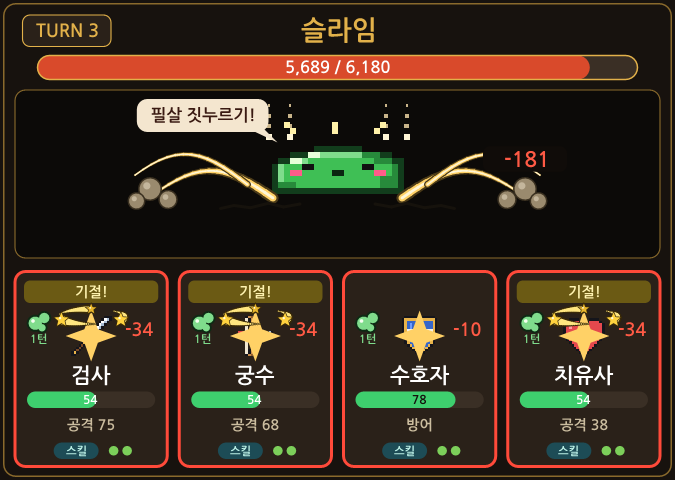
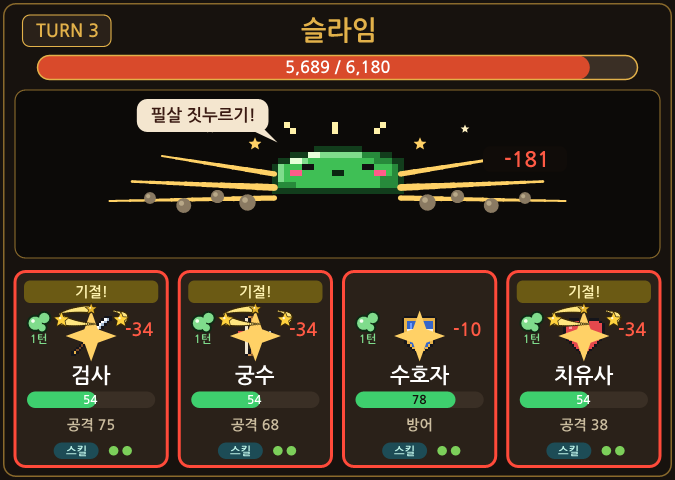
슬라임 필살기: 굵은 충격선(시안 A) — 양옆 노란 충격선 세 줄 + 흙먼지 + 작은 충격 별 / 울부짖음 → 울부짖기

diff --git a/handlers/레이드그림.js b/handlers/레이드그림.js
@@ -454,7 +454,7 @@ function puff(x, y, size, c, light, dark = '#3a1450') {
 // 작은 유령(원혼 폭풍): 5×5 도트
 const MINI_GHOST = { rows: ['.www.', 'wwwww', 'wkwkw', 'wwwww', 'w.w.w'], palette: { w: '#f1ecff', k: '#2a1f4a' } };
 const MINI_GHOST_DARK = { rows: ['.www.', 'wwwww', 'wkwkw', 'wwwww', 'w.w.w'], palette: { w: '#9b7bff', k: '#1a0f33' } };
-// 들쭉날쭉한 호(울부짖음 음파): 중심에서 r, 각도 a0~a1, 바깥·안쪽을 번갈아
+// 들쭉날쭉한 호(울부짖기 음파): 중심에서 r, 각도 a0~a1, 바깥·안쪽을 번갈아
 function jaggedArc(cx, cy, r, a0, a1, squash, width, color, teeth = 9) {
   let prev = null;
   for (let i = 0; i <= teeth * 2; i++) {
@@ -574,7 +574,7 @@ function monsterFx(move, cx, cy, color, layer, spore = color, accent = spore) {
   }
   // ── 고스트 ──
   if (move === 'wail' && layer === 'back') {
-    // 울부짖음: 입에서 터져 나가는 들쭉날쭉한 음파 고리 세 겹(안쪽은 밝고 굵게, 바깥은 흐리게)
+    // 울부짖기: 입에서 터져 나가는 들쭉날쭉한 음파 고리 세 겹(안쪽은 밝고 굵게, 바깥은 흐리게)
     for (const [r, w, c] of [[96, 6, '#f4f0ff'], [132, 5, '#c3b4ff'], [168, 4, '#7c5fd6']]) {
       jaggedArc(cx, cy + 18, r, -0.85, 0.85, 0.62, w, c);
       jaggedArc(cx, cy + 18, r, Math.PI - 0.85, Math.PI + 0.85, 0.62, w, c);
@@ -739,24 +739,14 @@ function monsterFx(move, cx, cy, color, layer, spore = color, accent = spore) {
       p.rect(cx + dx - s, cy + dy - s / 3, s * 2, (s * 2) / 3, '#7cff9a');
       p.rect(cx + dx - s / 3, cy + dy - s, (s * 2) / 3, s * 2, '#7cff9a');
     }
-  } else if (move === 'smash' && layer === 'back') {
-    // 필살 짓누르기: 위에서 내리꽂힌 흔적 — 몸 양옆 위에서 아래로 굵어지는 낙하 속도선
-    for (const dx of [-92, -64, 64, 92]) {
-      for (let i = 0; i < 4; i++) dot(cx + dx, cy - 62 + i * 14, 3 + i * 1.6, i === 3 ? '#fff6d6' : '#c9b48a');
-    }
   } else if (move === 'smash' && layer === 'front') {
-    // 바닥에서 양옆으로 휘몰아치는 굵은 충격 바람(초승달 모양, 어두운 테두리 → 노랑 → 흰 심) + 땅 균열 + 흙먼지 구름
+    // 필살 짓누르기(시안 A 굵은 충격선): 양옆으로 뻗는 노란 충격선 세 줄씩(바깥으로 갈수록 가늘게) + 흙먼지 뭉치 + 위로 튀는 작은 충격 별
     for (const sd of [-1, 1]) {
-      for (const [r0, thick, oy] of [[86, 16, 0], [120, 10, -18]]) {
-        const pts = [];
-        for (let i = 0; i <= 14; i++) { const t = i / 14; pts.push([cx + sd * (r0 + t * 150), cy + 62 + oy - Math.sin(t * Math.PI * 0.9) * (26 + r0 * 0.12)]); }
-        for (const [k, c] of [[1, '#4a3a18'], [0.62, '#ffd166'], [0.25, '#fff6d6']]) {
-          for (let i = 1; i < pts.length; i++) { const taper = 1 - (i / pts.length) * 0.75; p.line(pts[i - 1][0], pts[i - 1][1], pts[i][0], pts[i][1], Math.max(1.5, thick * k * taper), c); }
-        }
+      for (const [y0, y1, len, w] of [[30, 6, 150, 7], [48, 40, 190, 9], [62, 66, 220, 7]]) {
+        for (let i = 0; i < 8; i++) { const t0 = i / 8, t1 = (i + 1) / 8; p.line(cx + sd * (84 + len * t0), cy + y0 + (y1 - y0) * t0, cx + sd * (84 + len * t1), cy + y0 + (y1 - y0) * t1, Math.max(2, w * (1 - t0 * 0.7)), '#ffd166'); }
       }
-      let [x, y] = [cx + sd * 50, cy + 70];
-      for (const [dx, dy] of [[22, 4], [20, -5], [24, 6], [22, -3], [18, 4]]) { p.line(x, y, x + sd * dx, y + dy, 4, '#16120c'); x += sd * dx; y += dy; }
-      for (const [dx, dy, r] of [[250, 50, 14], [226, 64, 11], [268, 66, 10]]) { p.circle(cx + sd * dx, cy + dy, r + 2, '#3a3020'); p.circle(cx + sd * dx, cy + dy, r, '#9a8a6e'); p.circle(cx + sd * dx - r * 0.3, cy + dy - r * 0.3, r * 0.35, '#c4b69c'); }
+      for (const [dx, dy, r] of [[120, 68, 11], [160, 60, 9], [205, 72, 10], [250, 62, 8]]) { p.circle(cx + sd * dx, cy + dy, r, '#8a7a62'); p.circle(cx + sd * dx - r * 0.3, cy + dy - r * 0.3, r * 0.35, '#b8a888'); }
+      star(cx + sd * 110, cy - 10, 9, '#ffd166'); star(cx + sd * 170, cy - 30, 6, '#fff1c2');
     }
   }
 }
@@ -792,7 +782,7 @@ function hitFx(move, cx, cy, color, spore = color, accent = spore) {
   } else if (move === 'curse') {
     // 영혼 사냥: 대상 카드 표시는 renderBattle의 curseLink가 그린다(세 줄 할퀴기)
   } else if (move === 'wail') {
-    // 울부짖음: 아이콘을 감싸는 들쭉날쭉한 음파 두 겹(양옆)
+    // 울부짖기: 아이콘을 감싸는 들쭉날쭉한 음파 두 겹(양옆)
     for (const [r, c] of [[30, '#f4f0ff'], [42, '#9b7bff']]) {
       jaggedArc(cx, cy, r, -0.9, 0.9, 1, 3, c, 5);
       jaggedArc(cx, cy, r, Math.PI - 0.9, Math.PI + 0.9, 1, 3, c, 5);

diff --git a/tests/raid/흐름테스트.js b/tests/raid/흐름테스트.js
@@ -794,7 +794,7 @@ let ok4;
 
       b = E.createBattle(ghost, party, rng);
       turnWith('wail', { x: 'guard', t: 'attack', y: 'attack' });
-      assert(!E.isFeared(b, M('x')) && E.isFeared(b, M('t')) && E.checkChoice(b, 't', 'skill') && E.checkChoice(b, 't', 'attack') === null && b.log.join().includes('😱'), '울부짖음: 방어 안 한 사람 😱공포 — 다음 턴 스킬 못 씀');
+      assert(!E.isFeared(b, M('x')) && E.isFeared(b, M('t')) && E.checkChoice(b, 't', 'skill') && E.checkChoice(b, 't', 'attack') === null && b.log.join().includes('😱'), '울부짖기: 방어 안 한 사람 😱공포 — 다음 턴 스킬 못 씀');
       turnWith('attack', { x: 'attack', t: 'attack', y: 'attack' });
       assert(!E.isFeared(b, M('t')), '공포는 한 턴만');
 

diff --git a/인수인계.md b/인수인계.md
@@ -115,10 +115,10 @@ node tests/raid/실행.js
   |---|---|---|
   | 할퀴기 | 차가운 손을 쭉 뻗는다... | 한 명 7~9 |
   | 영혼 사냥 | 👁 {target}을(를) 뚫어지게 노려본다... | **예고 때 대상 확정**(을/를은 이름 받침에 맞춤), 그 사람에게 12~15. 분노 중 2명. 수호자 도발은 한 명 몫을 대신 맞고, 수호자 자신도 표식이면 다른 사람 몫까지 대신 맞음(두 번, 피해 합산 — 최종 검토에서 고침). 대상이 쓰러지면 다른 사람에게 옮김. 카드 오른쪽 위에 빛나는 눈 |
-  | 울부짖음 | 입을 크게 벌리고 숨을 들이켠다... | 전원 2~4 + 😱공포(다음 턴 스킬 못 씀, 방어하면 안 걸림) |
+  | 울부짖기 | 입을 크게 벌리고 숨을 들이켠다... | 전원 2~4 + 😱공포(다음 턴 스킬 못 씀, 방어하면 안 걸림) |
   | 투명화 | 몸이 점점 흐려지기 시작한다... | 다음 턴 일반 공격은 빗나감(스킬은 맞음). 몸이 흐려지고 오른쪽 위 배지 |
   | 필살 원혼 폭풍 | 💥 필살기를 준비 중입니다! 방어하세요! | 전원 12~15 + 방어 안 한 사람 공포 |
-- 비중: 평상시 할퀴기 4 · 영혼 사냥 2.5 · 울부짖음 2 · 투명화 1.5 · 원혼 폭풍 1 / 분노 3 · 2.5 · 2 · 1.5 · 1.5. baseHp 7700.
+- 비중: 평상시 할퀴기 4 · 영혼 사냥 2.5 · 울부짖기 2 · 투명화 1.5 · 원혼 폭풍 1 / 분노 3 · 2.5 · 2 · 1.5 · 1.5. baseHp 7700.
 - 밸런스(시뮬 보통 플레이 — 수호자는 표식 턴에 도발, 표식 대상은 수호자가 못 막으면 방어): 승률 2인 78% · 3인 90% · 4인 92%(검토 수정 뒤 다시 맞춤), 평균 24~25턴. 2인(검사·궁수)은 막아 줄 수호자가 없어 조금 어려움.
 
 ### 3-1-5. 다섯 번째 몬스터 "꼬마 폭탄" (`Monster/꼬마폭탄.json`, 2026-11-06)
@@ -129,10 +129,10 @@ node tests/raid/실행.js
 - 비중: 평상시 박치기 4 · 불똥 2.5 · 연막 1.5 · 점화 1 / 분노 3.5 · 2.5 · 1.5 · 1.5. baseHp 9000. 카운트다운이 끝나면(대폭발·불끄기) 필살기 7턴 카운트를 새로 세고, 끝난 뒤 2턴은 다시 점화하지 않음(최종 검토 — 예전엔 대폭발 바로 다음 턴에 또 점화해 전투의 40~55%가 카운트다운이었음).
 - 밸런스(시뮬 보통 플레이): 승률 2인 88% · 3인 78% · 4인 91%, 평균 24~25턴. 3인(검사·궁수·수호자)은 치유사가 없어 화상이 아파서 조금 어려움.
 - 공통 일반화: 예고 문구는 `telegraphText`(표식 이름·연막), 경고 여부는 `isWarnIntent`(기술의 warn, 없으면 smash), readyPose는 모든 기술에서.
-- 연출 다시(사용자 피드백 — 색만 바꾼 티가 남): 고스트 영혼 사냥=파티 쪽으로 뻗는 혼령 촉수+혼불, 울부짖음=들쭉날쭉한 음파 고리, 원혼 폭풍=나선 회오리+작은 유령들(피격도 각각 혼령 손톱·음파·작은 유령). 공포 아이콘=겁먹은 얼굴+식은땀. 꼬마 폭탄 불똥 튀기기 → **분진 흩날리기**(화약 가루 알갱이+옅은 먼지, fx dust), 점화=도화선 끝 불꽃 별+포물선 불티, 연막=옅게 겹친 연기, 대폭발=몬스터 칸이 붉게 물들고 들쭉날쭉한 폭발 섬광+파편+충격선. 화상 배지는 불꽃 모양, 화상 틱 피해 숫자는 주황(독은 보라).
+- 연출 다시(사용자 피드백 — 색만 바꾼 티가 남): 고스트 영혼 사냥=파티 쪽으로 뻗는 혼령 촉수+혼불, 울부짖기=들쭉날쭉한 음파 고리, 원혼 폭풍=나선 회오리+작은 유령들(피격도 각각 혼령 손톱·음파·작은 유령). 공포 아이콘=겁먹은 얼굴+식은땀. 꼬마 폭탄 불똥 튀기기 → **분진 흩날리기**(화약 가루 알갱이+옅은 먼지, fx dust), 점화=도화선 끝 불꽃 별+포물선 불티, 연막=옅게 겹친 연기, 대폭발=몬스터 칸이 붉게 물들고 들쭉날쭉한 폭발 섬광+파편+충격선. 화상 배지는 불꽃 모양, 화상 틱 피해 숫자는 주황(독은 보라).
 - 2차 피드백: 영혼 사냥=세 줄 할퀴기(시안 B 선택) — 고스트 쪽 연출 없이 맞은 카드 전체를 비스듬히 가르는 큰 세 줄 할퀴기(renderBattle의 curseLink, 맞은 카드에만), 공포 아이콘=질린 눈(보라 눈꺼풀 안 큰 흰자 · 오그라든 눈동자). 점화=도화선 끝 불꽃 별+둘레 불티+연기(양옆 포물선 불티는 뺌), **카운트다운 중엔 어떤 기술·자세든 도화선 끝에 불꽃**(sprite.fuseTip). 대폭발은 맞은 사람 전원 🔥화상 1중첩(방어해도 걸림) — 대폭발 피해는 18~22 유지(사용자 요청), 대신 불끄기 기준 24→20%·분진 피해 3~5→2~4(승률 2·3·4인 88·77·93%). 빙결 리본은 얼음색.
 - 필살기 연출 다시(사용자 요청 — 밋밋함): 슬라임 필살 짓누르기=바닥 점액 충격파 고리 두 겹 + 사방으로 튀는 점액 방울 + 갈라진 바닥, 맞은 카드엔 아이콘 오른쪽 아래 점액 자국(노란 별 대신). 아이스 큐브 빙하 낙하=비스듬히 내리꽂히는 빙하 결정 조각 + 바닥 서리 충격파(흰 고리·얼음 가시·눈송이), 맞은 카드엔 아이콘 아래에서 솟은 얼음 결정.
-- 3차 피드백(2026-11-07): 고스트 투명화가 실전에서 한 번도 안 나와(시뮬상 12%, 13% 판은 0번) 비중 1.5→3·할퀴기 4→3.5, 영혼 사냥 12~15→18~22, HP 7700→7200(승률 2·3·4인 75·87·90%). 꼬마 폭탄 불끄기 성공률이 2인 10%·4인 1%로 사실상 못 막아서 카운트다운 3→4턴(분노 2→3턴)·기준 20→13%(성공률 40~48%), 대신 박치기 10~12·분진 3~5·HP 9400(84·80·95%), 불끄기 막대는 남은 불이 줄어드는 방향. 아이스 큐브 빙결 판정은 몬스터 기술 뒤에만(기절처럼), 결과 화면 카드 리본에 "빙결!"/"기절!", 서리 숨결 피격은 입김 바람줄기(빙결 덮개와 구분). 슬라임 필살 짓누르기=낙하 속도선+충격 바람+균열+흙먼지, 피격은 노란 별(원래대로).
+- 3차 피드백(2026-11-07): 고스트 투명화가 실전에서 한 번도 안 나와(시뮬상 12%, 13% 판은 0번) 비중 1.5→3·할퀴기 4→3.5, 영혼 사냥 12~15→18~22, HP 7700→7200(승률 2·3·4인 75·87·90%). 꼬마 폭탄 불끄기 성공률이 2인 10%·4인 1%로 사실상 못 막아서 카운트다운 3→4턴(분노 2→3턴)·기준 20→13%(성공률 40~48%), 대신 박치기 10~12·분진 3~5·HP 9400(84·80·95%), 불끄기 막대는 남은 불이 줄어드는 방향. 아이스 큐브 빙결 판정은 몬스터 기술 뒤에만(기절처럼), 결과 화면 카드 리본에 "빙결!"/"기절!", 서리 숨결 피격은 입김 바람줄기(빙결 덮개와 구분). 슬라임 필살 짓누르기=굵은 노란 충격선+흙먼지+작은 충격 별(시안 A), 피격은 노란 별(원래대로).
 - 화면(공통): 기절은 아이콘 머리 위를 도는 꼬리 달린 별 셋(사용자가 고른 모양), 점액은 왼쪽 방울 배지(남은 턴) + 아이콘 위 점액 얼룩 둘 다(사용자 요청).
 
 ### 3-2. 밸런스 수치 (`handlers/레이드전투.js` 위쪽 상수)

diff --git a/레이드설명서/신몬스터/신몬스터_설명서.md b/레이드설명서/신몬스터/신몬스터_설명서.md
@@ -26,7 +26,7 @@
 | 🌀 **환각** | 독버섯(최면술) | 다음 턴 방어가 아닌 행동이 확률로 헛손질 | 아이콘 위 청록 소용돌이 | 방어는 빗나가지 않음 |
 | ❄ **냉기** | 아이스 큐브 | 중첩이 쌓이다 **3중첩이면 빙결** | 카드 왼쪽 **눈송이 배지 ×중첩** | 공격·스킬로 1씩 녹음 · 치유사 스킬(전원 0) · 회복약(본인 0) |
 | 🧊 **빙결** | 아이스 큐브 | 다음 턴 행동 불가(냉기는 0으로) | 아이콘을 덮는 **반투명 얼음** · 얼음색 리본 "빙결 · 행동 불가" | — |
-| 😱 **공포** | 고스트(울부짖음·원혼 폭풍) | 다음 턴 **스킬 사용 불가**(공격·방어·회복약은 됨) | 카드 왼쪽 **보라 느낌표 배지** | 방어하면 안 걸림 |
+| 😱 **공포** | 고스트(울부짖기·원혼 폭풍) | 다음 턴 **스킬 사용 불가**(공격·방어·회복약은 됨) | 카드 왼쪽 **보라 느낌표 배지** | 방어하면 안 걸림 |
 | 👁 **표식** | 고스트(영혼 사냥) | 예고 때 **대상이 정해짐** → 다음 턴 그 사람이 큰 피해 | 예고 문구에 **이름**, 카드 오른쪽 위 **빛나는 눈** | 본인 방어 · 수호자 도발(대신 맞음) |
 | 🔥 **화상** | 꼬마 폭탄(분진 흩날리기) | 독과 같은 규칙(중첩 × 2 피해, 3턴, 최대 3중첩) | **주황 불꽃 모양** 배지, 틱 피해 숫자도 주황 · HP 바 주황 | 치유사 스킬 · 회복약 |
 
@@ -96,19 +96,19 @@
 |---|---|---|
 | 할퀴기 | 차가운 손을 쭉 뻗는다... | 한 명 7~9 |
 | 영혼 사냥 | 👁 {대상}을(를) 뚫어지게 노려본다... | 표식 대상에게 18~22(분노 중 2명) |
-| 울부짖음 | 입을 크게 벌리고 숨을 들이켠다... | 전원 2~4 + 😱공포(방어하면 안 걸림) |
+| 울부짖기 | 입을 크게 벌리고 숨을 들이켠다... | 전원 2~4 + 😱공포(방어하면 안 걸림) |
 | 투명화 | 몸이 점점 흐려지기 시작한다... | 다음 턴 일반 공격 빗나감(스킬은 맞음) |
 | 필살 원혼 폭풍 | 💥 필살기를 준비 중입니다! 방어하세요! | 전원 12~15 + 방어 안 한 사람 공포 |
 
-- 비중: 평상시 할퀴기 3.5 · 영혼 사냥 2.5 · 울부짖음 2 · 투명화 3 · 원혼 폭풍 1 / 분노 3 · 2.5 · 2 · 3 · 1.5
-- **공략**: 울부짖음으로 수호자가 공포에 걸리면 다음 표식을 도발로 못 막습니다 — 울부짖음 예고 땐 수호자가 방어. 투명화 다음 턴엔 딜러가 스킬을 아껴 두었다가 쓰세요.
+- 비중: 평상시 할퀴기 3.5 · 영혼 사냥 2.5 · 울부짖기 2 · 투명화 3 · 원혼 폭풍 1 / 분노 3 · 2.5 · 2 · 3 · 1.5
+- **공략**: 울부짖기으로 수호자가 공포에 걸리면 다음 표식을 도발로 못 막습니다 — 울부짖기 예고 땐 수호자가 방어. 투명화 다음 턴엔 딜러가 스킬을 아껴 두었다가 쓰세요.
 - 시뮬 보통 플레이 승률: 2인 78% · 3인 90% · 4인 92%, 평균 25턴 (2인은 검사·궁수라 막아 줄 수호자가 없어 조금 어려움)
 
 ### 장면
 | | |
 |---|---|
 | ![모집](<그림/고스트_00_모집.png>) 모집 화면 | ![표식](<그림/고스트_01_표식예고.png>) 표식 예고(이름 + 빛나는 눈) |
-| ![도발](<그림/고스트_02_영혼사냥_도발.png>) 영혼 사냥(세 줄 할퀴기) → 수호자가 도발로 대신 맞음 | ![울부짖음](<그림/고스트_03_울부짖음_결과.png>) 울부짖음 → 공포 |
+| ![도발](<그림/고스트_02_영혼사냥_도발.png>) 영혼 사냥(세 줄 할퀴기) → 수호자가 도발로 대신 맞음 | ![울부짖기](<그림/고스트_03_울부짖기_결과.png>) 울부짖기 → 공포 |
 | ![공포](<그림/고스트_04_공포_선택화면.png>) 공포 배지(스킬 사용 불가) | ![투명화](<그림/고스트_05_투명화_결과.png>) 투명화 |
 | ![투명선택](<그림/고스트_06_투명화_선택화면.png>) 투명화 턴(흐린 몸 + 배지) | ![분노표식](<그림/고스트_07_분노_표식2명.png>) 분노 — 표식 2명 |
 | ![필살예고](<그림/고스트_08_필살기예고.png>) 필살기 예고 | ![폭풍](<그림/고스트_09_원혼폭풍_결과.png>) 필살 원혼 폭풍 |
@@ -156,7 +156,7 @@
 ## 5. 공통 화면 변경 (기존 몬스터에도 적용)
 
 - **기절**: 아이콘 **머리 위를 도는 꼬리 달린 별 셋**, 막 걸린 턴 결과 화면엔 카드 리본에 "기절!"(빙결도 같은 자리에 "빙결!").
-- **슬라임 필살 짓누르기**: 위에서 내리꽂힌 낙하 속도선 + 바닥에서 양옆으로 휘몰아치는 충격 바람 + 땅 균열 + 흙먼지(점액은 튀지 않음), 맞은 카드엔 노란 별.
+- **슬라임 필살 짓누르기**: 위에서 내리꽂힌 양옆으로 뻗는 굵은 노란 충격선 세 줄씩 + 흙먼지 + 튀는 작은 충격 별(점액은 튀지 않음), 맞은 카드엔 노란 별.
 - **점액**: 아이콘 위 점액 얼룩 + 카드 왼쪽 **방울 배지(남은 턴)** 둘 다.
 
 | | |

diff --git a/docs/superpowers/specs/2026-11-06-신몬스터-3종-design.md b/docs/superpowers/specs/2026-11-06-신몬스터-3종-design.md
@@ -45,12 +45,12 @@
 |---|---|---|---|
 | `attack` | 할퀴기 | 한 명 | 8~10 |
 | `mark` | 저주의 눈길 → 영혼 사냥 | 표식 대상 | 예고 때 대상을 정한다. 예고 문구 "👁 **{target}**을(를) 뚫어지게 노려본다...". 다음 턴 그 사람에게 22~26 |
-| `wail` | 울부짖음 | 전원 | 4~6 + 😱**공포**(다음 턴 스킬 사용 불가). 방어한 사람은 안 걸림(`guardBlocks`) |
+| `wail` | 울부짖기 | 전원 | 4~6 + 😱**공포**(다음 턴 스킬 사용 불가). 방어한 사람은 안 걸림(`guardBlocks`) |
 | `phase` | 투명화 | 없음 | 다음 턴 동안 **일반 공격은 빗나가고 스킬만 맞음** — **[제안, 선택 사항]** 공포와 겹치면 너무 아플 수 있어 시뮬 보고 뺄 수 있음 |
 | `smash` | 필살 원혼 폭풍 | 전원 | 큰 피해 + 방어하지 않은 사람은 공포 |
 
 - **분노**: 표식이 **두 명**에게 붙는다. 도발은 한 명만 막으니 나머지는 스스로 방어해야 한다.
-- 대처: 표식 대상이 방어(-70%), 또는 수호자 도발(대신 맞고 -70%). 도발 쿨타임 2턴이라 연달아 막기 어렵다. 울부짖음으로 수호자가 공포에 걸리면 다음 표식을 못 막는 연계가 생긴다.
+- 대처: 표식 대상이 방어(-70%), 또는 수호자 도발(대신 맞고 -70%). 도발 쿨타임 2턴이라 연달아 막기 어렵다. 울부짖기으로 수호자가 공포에 걸리면 다음 표식을 못 막는 연계가 생긴다.
 
 ### 필요한 엔진 작업
 1. **예고 때 대상 확정**: 지금은 단일 공격 대상을 맞는 순간 무작위로 고른다(`resolveTurn`). 표식 기술은 `pickNextIntent` 직후 대상을 골라 `battle.intentTargets`에 저장.
